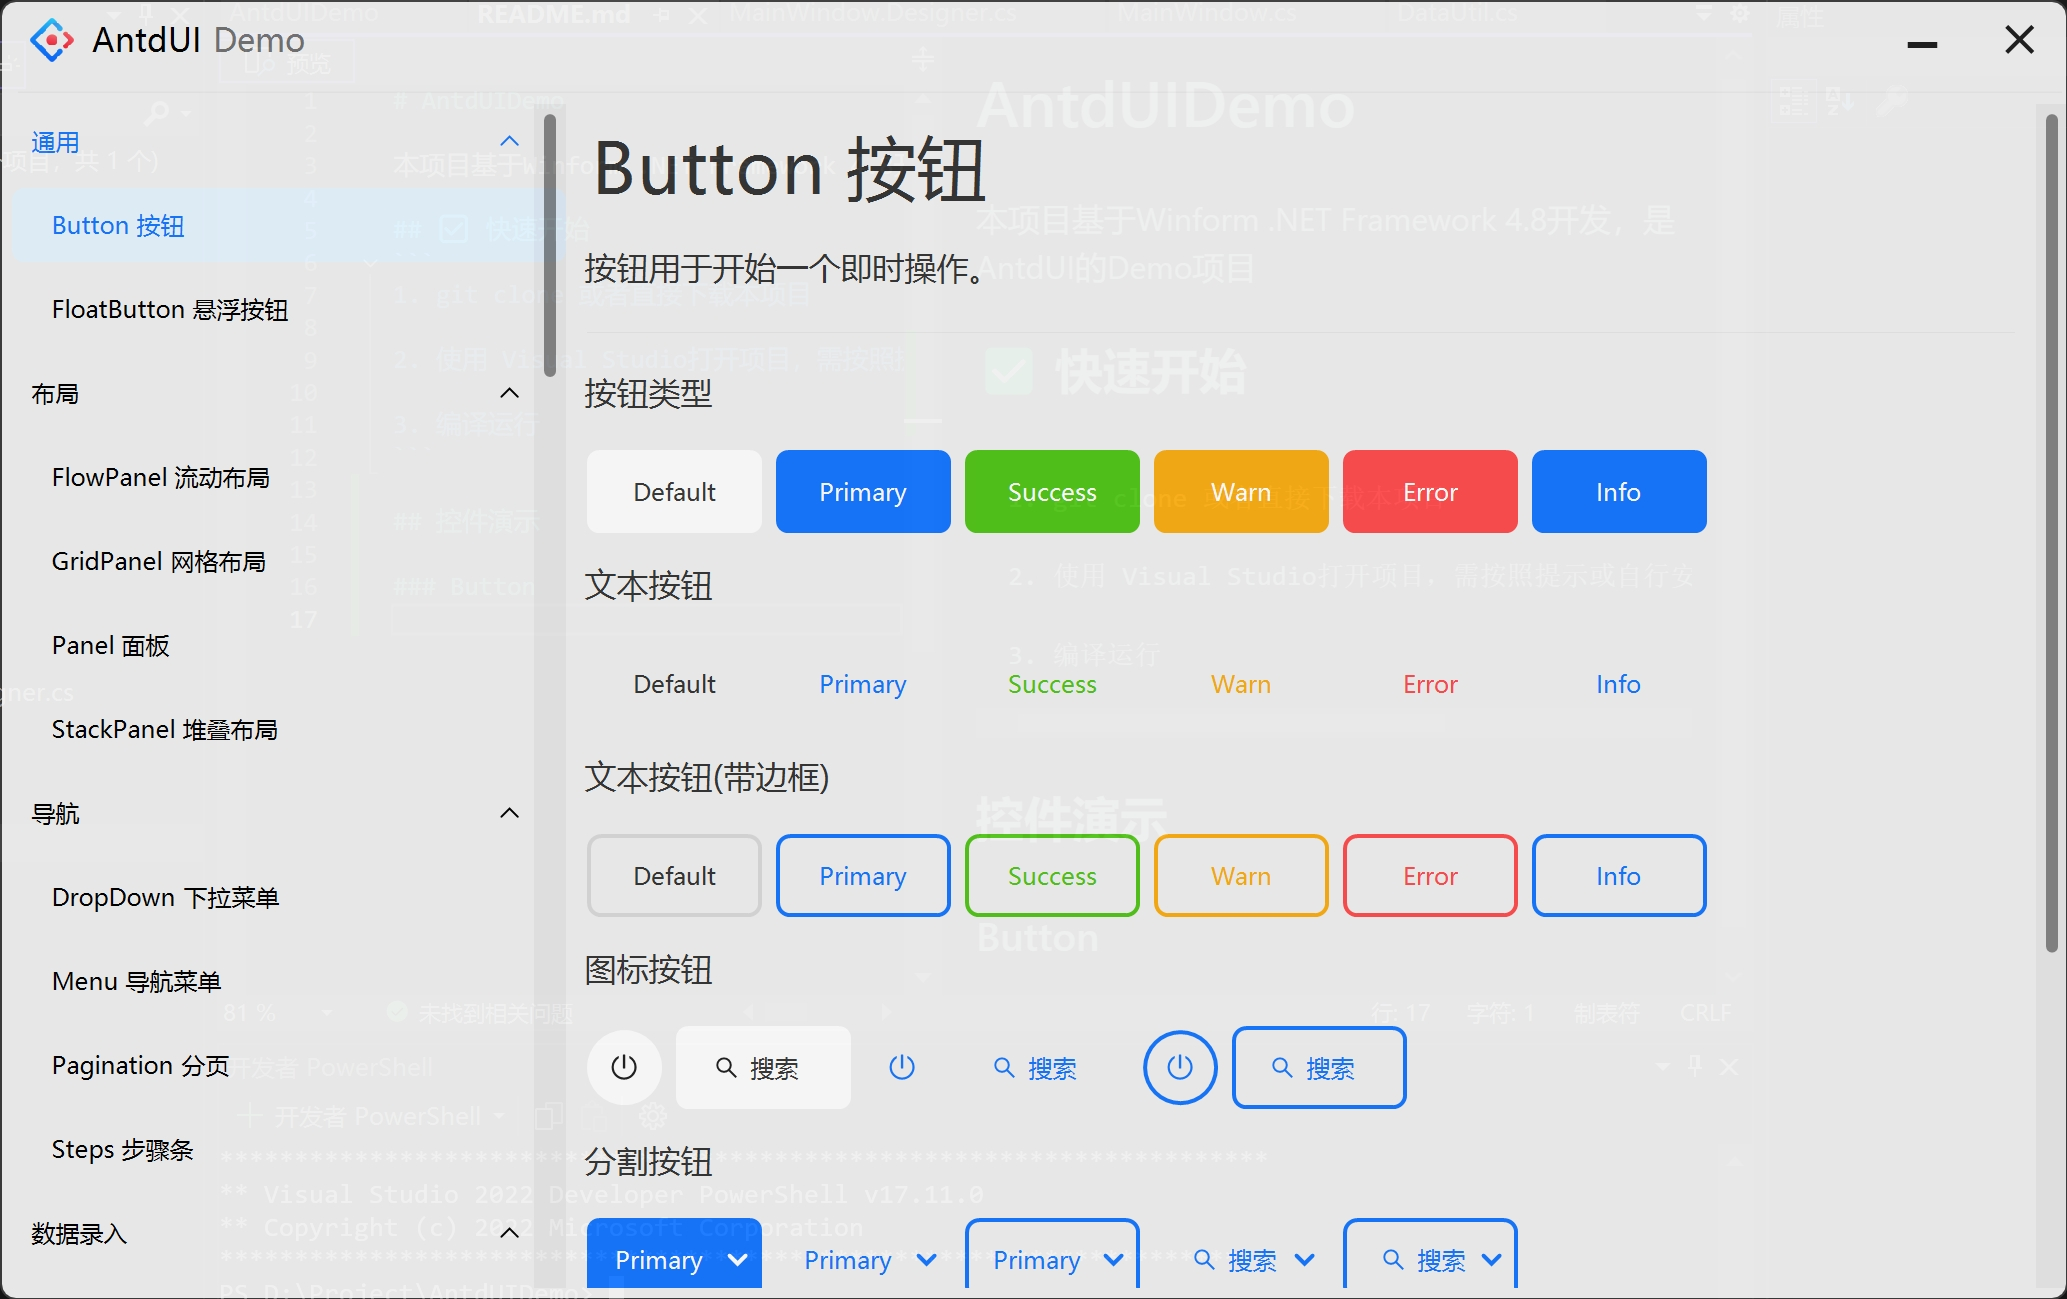
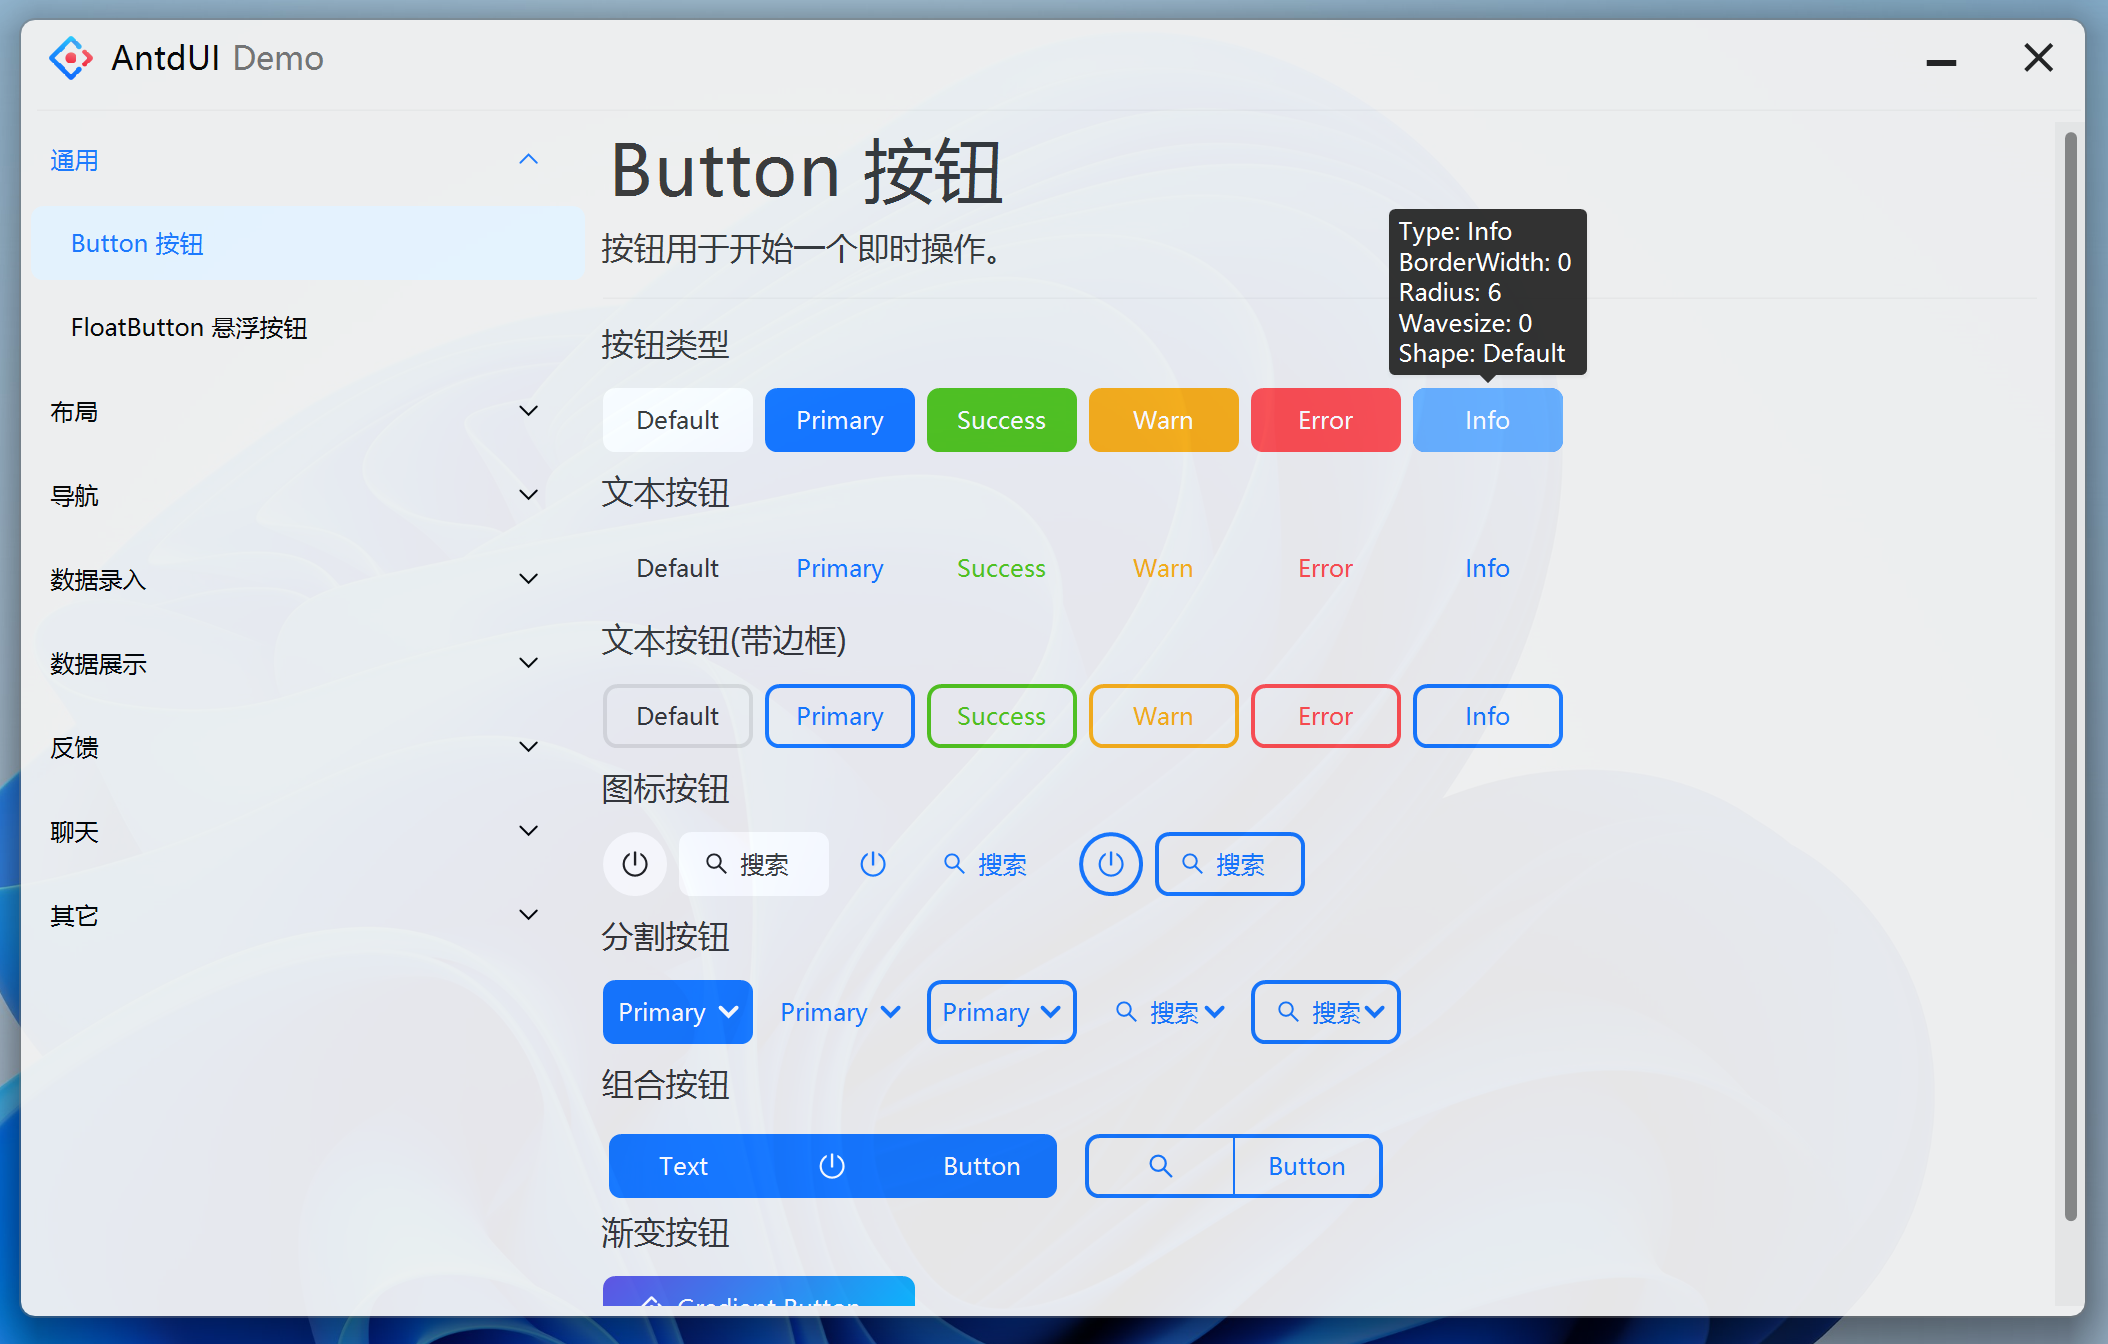
README

Changed region(s): [[0.0, 0.0, 1.0, 1.0], [0.7741, 0.5235, 0.805, 0.5543], [0.7431, 0.6159, 0.7741, 0.6467]]

diff --git a/README.md b/README.md
@@ -6,12 +6,22 @@
 ```
 1. git clone 或者直接下载本项目
 
-2. 若电脑缩放不是100%，使用 Visual Studio 在100%缩放模式下(命令行使用 devenv /noScale 命令启动 Visual Studio)打开项目，并按照提示或自行安装 .NET Framework4.8
+2. 若电脑缩放不是100%，使用 Visual Studio 在100%缩放模式下(命令行使用 devenv /noScale 命令启动 Visual Studio)打开项目
 
-3. 编译运行
+3. 若电脑没有安装.NET Framework 4.8,编辑项目文件设置 TargetFramework 属性为自己安装的目标框架，兼容框架参照 AntdUI 项目
+
+4. 编译运行
 ```
 
 ## 控件演示
 
 ### Button
 ![Button](assets/screenshots/Button.png)
+### FloatButton
+![FloatButton](assets/screenshots/FloatButton.png)
+### FlowPanel
+![FlowPanel](assets/screenshots/FlowPanel.png)
+### GridPanel
+![GridPanel](assets/screenshots/GridPanel.png)
+### Panel
+![Panel](assets/screenshots/Panel.png)
